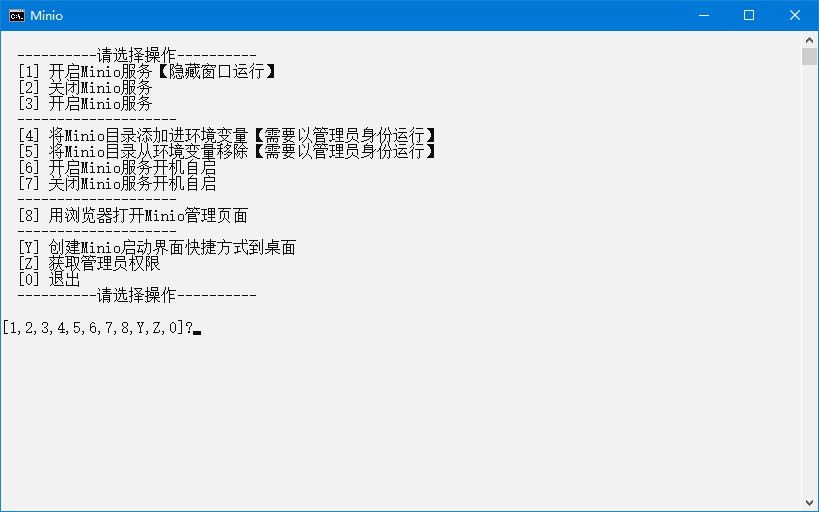
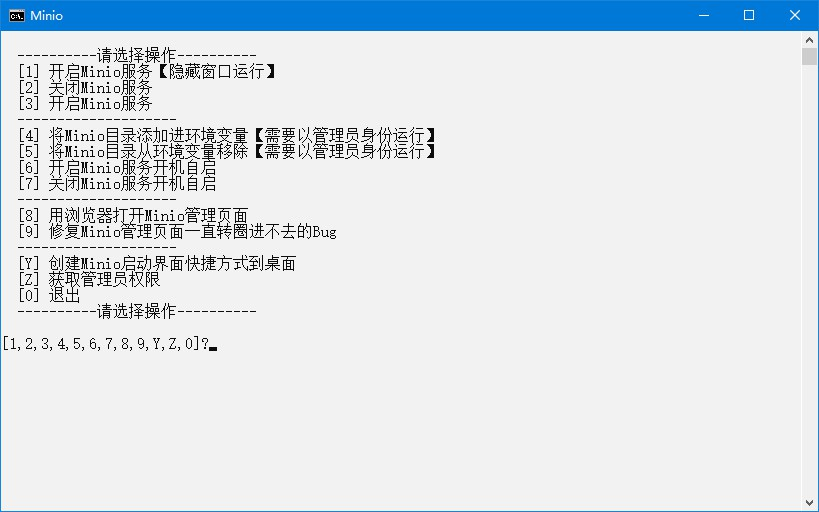
0907

Changed region(s): [[0.0305, 0.4375, 0.3968, 0.6875], [0.0, 0.625, 0.1221, 0.6875]]

diff --git a/program/minio/Minio.md b/program/minio/Minio.md
@@ -19,6 +19,16 @@
    默认启用
 2. 用户、角色、权限和密码  
    管理页面设置
+3. 管理页面打开后一直转圈，浏览器控制台提示`Refused to execute script from 'xxxx' because its MIME type ('text/plain') is not executable, and strict MIME type checking is enabled.`，需要运行以下注册表文件：
+   ```txt
+   Windows Registry Editor Version 5.00
+
+   [HKEY_CLASSES_ROOT\.js]
+   "Content Type"="text/javascript"
+
+   [HKEY_LOCAL_MACHINE\SOFTWARE\Classes\.js]
+   "Content Type"="text/javascript"
+   ```
 
 ## 打包下载
 1. 阿里云盘 https://www.aliyundrive.com/s/JSqq7tgLvgK
